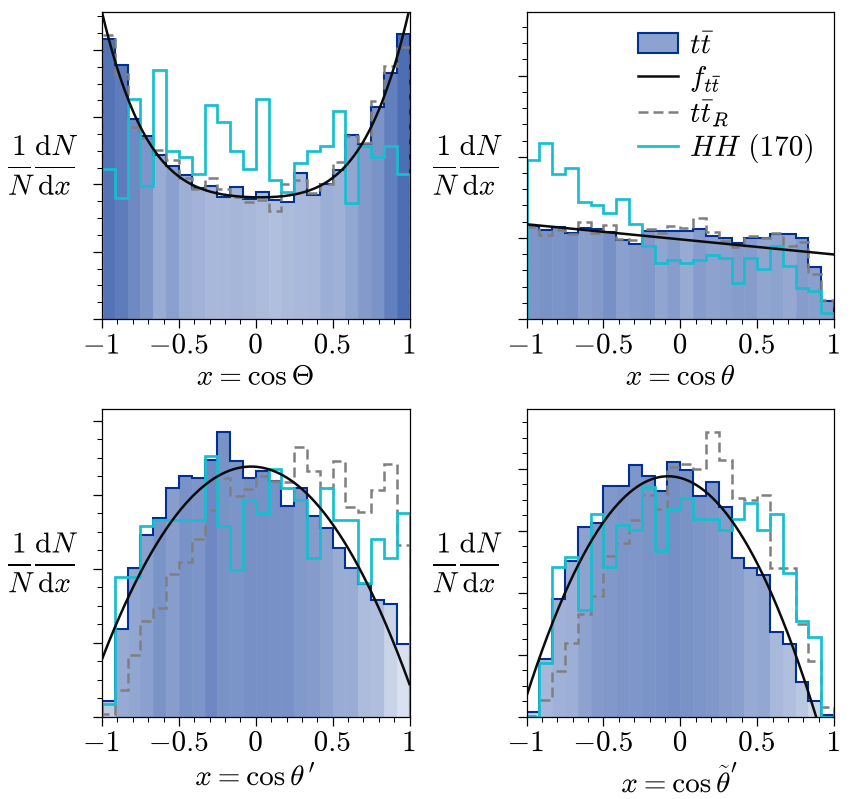
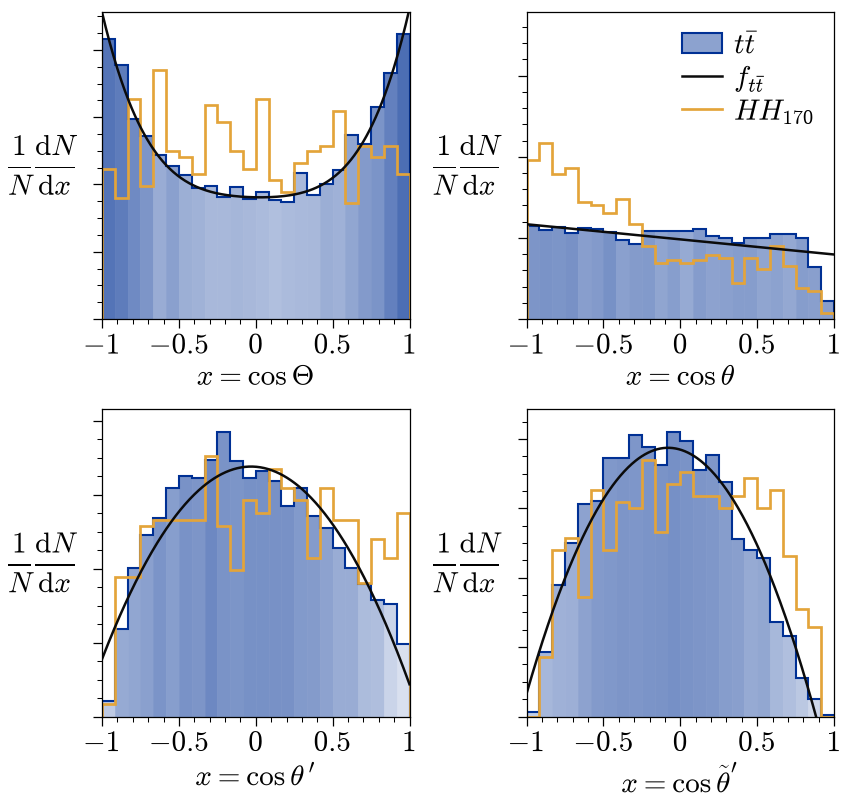
Study T paper figures: no ttbar_R, HH in the toy-figure amber, HH_170 legend
Claude-Session: https://claude.ai/code/session_01FSjXgdaswEHfxoteyCtD3a

diff --git a/study_truthmatch/paper_figs_matched.py b/study_truthmatch/paper_figs_matched.py
@@ -27,6 +27,8 @@ from plotting.angles import ANGLE_NAMES  # noqa: E402
 from wtb_reweight import weights  # noqa: E402
 
 SAMPLES = {"tt": "run_seed1001", "hh": "run_m170_seed2170", "h1": "run_seed2001"}
+HH_LBL = r"$HH_{170}$"    # short legend label
+HH_C = M.AMBER          # the amber of the toy figure (compare_y.py LINE_J), now that hh(125) is not drawn
 
 
 def load(fit_dir):
@@ -60,18 +62,16 @@ def fig2(x, f, y, w_r, path, with_h1=False):
         r, c = divmod(i, 2)
         ax = M.place(fig, T + c * (P + GX + T), B + (1 - r) * (P + GY), P, P, W, H)
         h_tt, _ = np.histogram(x["tt"][a], edges, density=True)
-        h_r, _ = np.histogram(x["tt"][a], edges, weights=w_r, density=True)
         h_hh, _ = np.histogram(x["hh"][a], edges, density=True)
         h_h1 = np.histogram(x["h1"][a], edges, density=True)[0] if with_h1 else np.zeros(len(edges) - 1)
         cols = cmap(0.15 + 0.55 * np.clip((u_bins[a] - lo_u) / (hi_u - lo_u), 0, 1))
         ax.bar(0.5 * (edges[1:] + edges[:-1]), h_tt, width=np.diff(edges), color=cols, edgecolor=cols, lw=0.3)
         ax.stairs(h_tt, edges, color=M.NAVY, lw=1.0)
         ax.plot(grid, f.projection(a, grid), color=M.INK, lw=1.2)
-        ax.stairs(h_r, edges, color=M.GRAY, lw=1.2, ls=(0, (4, 2)))
-        ax.stairs(h_hh, edges, color=M.HH170_C, lw=1.3)
+        ax.stairs(h_hh, edges, color=HH_C, lw=1.3)
         if with_h1:
             ax.stairs(h_h1, edges, color=M.HH125_C, lw=1.3)
-        top = max(h_tt.max(), h_r.max(), h_hh.max(), h_h1.max())
+        top = max(h_tt.max(), h_hh.max(), h_h1.max())
         ax.set_xlim(-1, 1)
         ax.set_ylim(0, (1.75 if i == 1 else 1.08) * top)
         ax.set_xticks([-1, -0.5, 0, 0.5, 1])
@@ -79,12 +79,46 @@ def fig2(x, f, y, w_r, path, with_h1=False):
         M.upright_ylabel(ax, M.dndx("x"))
         M.finish(ax)
     h = [plt.Rectangle((0, 0), 1, 1, fc=cmap(0.45), ec=M.NAVY, lw=1.0), plt.Line2D([], [], color=M.INK, lw=1.2),
-         plt.Line2D([], [], color=M.GRAY, lw=1.2, ls=(0, (4, 2))), plt.Line2D([], [], color=M.HH170_C, lw=1.3)]
-    labs = [M.TT_L, r"$f_{t\bar{t}}$", r"$t\bar{t}_R$", M.HH_L]
+         plt.Line2D([], [], color=HH_C, lw=1.3)]
+    labs = [M.TT_L, r"$f_{t\bar{t}}$", HH_LBL]
     if with_h1:
         h.append(plt.Line2D([], [], color=M.HH125_C, lw=1.3)); labs.append(M.H1_L)
     fig.axes[1].legend(h, labs, loc="upper right", ncol=1, handlelength=1.4, handletextpad=0.4,
                        labelspacing=0.2, borderaxespad=0.25)
+    for ext in ("pdf", "png"):
+        fig.savefig(f"{path}.{ext}", dpi=150)
+    plt.close(fig)
+    return W
+
+
+def fig3_plot(path, panels):
+    """As make_paper_figs.fig3_plot: y and υ side by side, tt̄ filled with the white-to-navy gradient in υ,
+    HH(170) as a line; no tt̄_R."""
+    from matplotlib.colors import LinearSegmentedColormap
+    cmap = LinearSegmentedColormap.from_list("tt", ["#ffffff", M.NAVY])
+    P = M.PANEL_DATA
+    T, GX, B, RT, TOP = 0.75, 0.12, 0.62, 0.15, 0.12
+    W = T + P + GX + T + P + RT
+    H = B + P + TOP
+    fig = plt.figure(figsize=(W, H))
+    for col, (v, edges, sym, xlab, shade_bins) in enumerate(panels):
+        ax = M.place(fig, T + col * (P + GX + T), B, P, P, W, H)
+        clip = lambda u: np.clip(u, edges[0], edges[-1] - 1e-9 * (edges[-1] - edges[0]))
+        wd = np.diff(edges)
+        h = {k: np.histogram(clip(v[k]), edges)[0] / len(v[k]) for k in ("tt", "hh")}
+        colors = cmap(0.08 + 0.92 * shade_bins)
+        for i in range(len(wd)):
+            ax.fill_between([edges[i], edges[i + 1]], 0, h["tt"][i] / wd[i], color=colors[i], lw=0)
+        ax.stairs(h["tt"] / wd, edges, color=M.NAVY, lw=1.0)
+        ax.stairs(h["hh"] / wd, edges, color=HH_C, lw=1.3)
+        ax.set_xlim(edges[0], edges[-1])
+        ax.set_ylim(0, 1.08 * max((hh / wd).max() for hh in h.values()))
+        ax.set_xlabel(xlab)
+        M.upright_ylabel(ax, M.dndx(sym))
+        M.finish(ax)
+    hs = [plt.Rectangle((0, 0), 1, 1, fc=cmap(0.45), ec=M.NAVY, lw=1.0), plt.Line2D([], [], color=HH_C, lw=1.3)]
+    fig.axes[0].legend(hs, [M.TT_L, HH_LBL], loc="upper right", bbox_to_anchor=(1.03, 1.0), handlelength=1.3,
+                       handletextpad=0.4, labelspacing=0.25, borderaxespad=0.1)
     for ext in ("pdf", "png"):
         fig.savefig(f"{path}.{ext}", dpi=150)
     plt.close(fig)
@@ -111,7 +145,7 @@ def fig3(y, w_r, path, with_h1=False):
     v_t = {"tt": t["tt"], "hh": t["hh"], **({"h1": t["x"]} if with_h1 else {})}
     panels = [(v_y, y_edges, "y", rf"$y\ \ [10^{{{expo}}}]$", shade(ups_of_y(yc))),
               (v_t, t_edges, r"\upsilon", r"$\upsilon$", shade(tc))]
-    return M.fig3_plot(path, A.fr, panels, w_r, n_eff_r, with_h1), n_eff_r
+    return fig3_plot(path, panels), n_eff_r
 
 
 def roc_and_ratio(y_tt, y_s, q_edges):
@@ -137,7 +171,7 @@ def fig_levels(y_matched, path):
           ("parton_trig", "parton + trigger", "-", M.INK),
           ("gen", r"gen, $\chi^2$", (0, (5, 2)), M.GRAY),
           ("reco", r"reco, $\chi^2$", "-", M.GRAY),
-          ("matched", r"reco, matched", "-", M.HH170_C)]
+          ("matched", r"reco, matched", "-", HH_C)]
     q_edges = np.linspace(0, 1, 11)
     curves = {}
     for key, *_ in lv:
